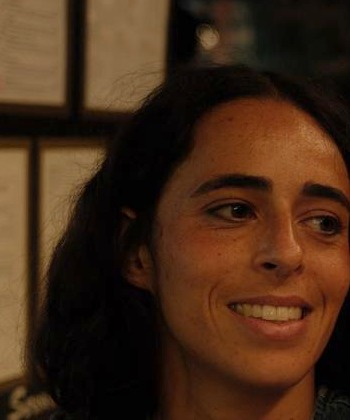
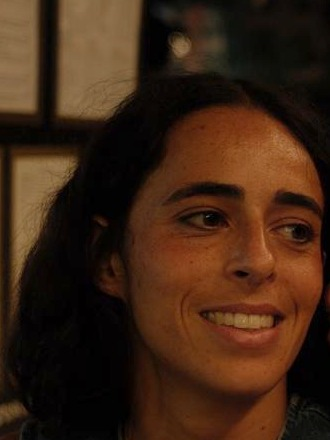
Recadrage photo : œil droit entier
Claude-Session: https://claude.ai/code/session_01EG8fNU7PHWNyPNM39eQbu9

diff --git a/index.html b/index.html
@@ -162,7 +162,7 @@ section{padding-block:96px}
 .about .in{display:grid;grid-template-columns:auto 1fr;gap:48px;align-items:center}
 .portrait{width:clamp(180px,24vw,260px);aspect-ratio:3/4;border-radius:999px 999px 0 0;background:var(--peche);position:relative;overflow:hidden;display:grid;place-items:center}
 .portrait::before{content:"";position:absolute;width:56%;aspect-ratio:1;border-radius:50%;background:var(--orange);top:16%}
-.portrait img{position:absolute;inset:0;width:100%;height:100%;object-fit:cover;object-position:65% 30%}
+.portrait img{position:absolute;inset:0;width:100%;height:100%;object-fit:cover;object-position:50% 50%}
 .portrait.photo{border:6px solid var(--peche);box-shadow:0 0 0 1px var(--trait)}
 .portrait.photo::before{display:none}
 .portrait b{position:relative;font-family:var(--display);font-weight:600;font-size:60px;color:#fff;margin-top:-18%}
@@ -445,7 +445,7 @@ footer b{color:var(--encre);font-family:var(--display);font-weight:600}
 
 <section class="band about">
   <div class="in">
-    <div class="portrait photo"><img src="img/einat.jpg" alt="Einat Guedj" width="350" height="420"></div>
+    <div class="portrait photo"><img src="img/einat.jpg" alt="Einat Guedj" width="330" height="440"></div>
     <div class="about-copy">
       <span class="kick">Qui suis-je</span>
       <h2>Einat, <span class="o">à Paris</span></h2>

diff --git a/en.html b/en.html
@@ -162,7 +162,7 @@ section{padding-block:96px}
 .about .in{display:grid;grid-template-columns:auto 1fr;gap:48px;align-items:center}
 .portrait{width:clamp(180px,24vw,260px);aspect-ratio:3/4;border-radius:999px 999px 0 0;background:var(--peche);position:relative;overflow:hidden;display:grid;place-items:center}
 .portrait::before{content:"";position:absolute;width:56%;aspect-ratio:1;border-radius:50%;background:var(--orange);top:16%}
-.portrait img{position:absolute;inset:0;width:100%;height:100%;object-fit:cover;object-position:65% 30%}
+.portrait img{position:absolute;inset:0;width:100%;height:100%;object-fit:cover;object-position:50% 50%}
 .portrait.photo{border:6px solid var(--peche);box-shadow:0 0 0 1px var(--trait)}
 .portrait.photo::before{display:none}
 .portrait b{position:relative;font-family:var(--display);font-weight:600;font-size:60px;color:#fff;margin-top:-18%}
@@ -445,7 +445,7 @@ footer b{color:var(--encre);font-family:var(--display);font-weight:600}
 
 <section class="band about">
   <div class="in">
-    <div class="portrait photo"><img src="img/einat.jpg" alt="Einat Guedj" width="350" height="420"></div>
+    <div class="portrait photo"><img src="img/einat.jpg" alt="Einat Guedj" width="330" height="440"></div>
     <div class="about-copy">
       <span class="kick">About me</span>
       <h2>Einat, <span class="o">in Paris</span></h2>
